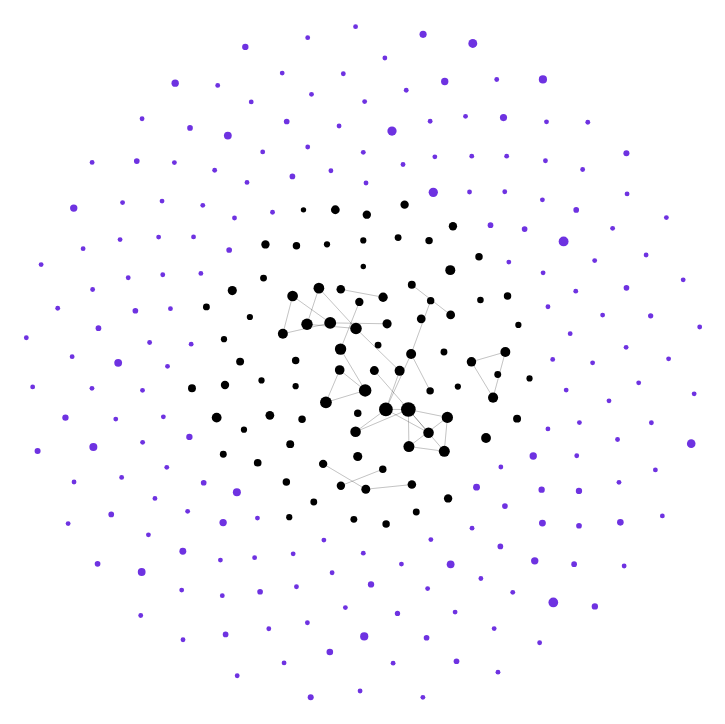
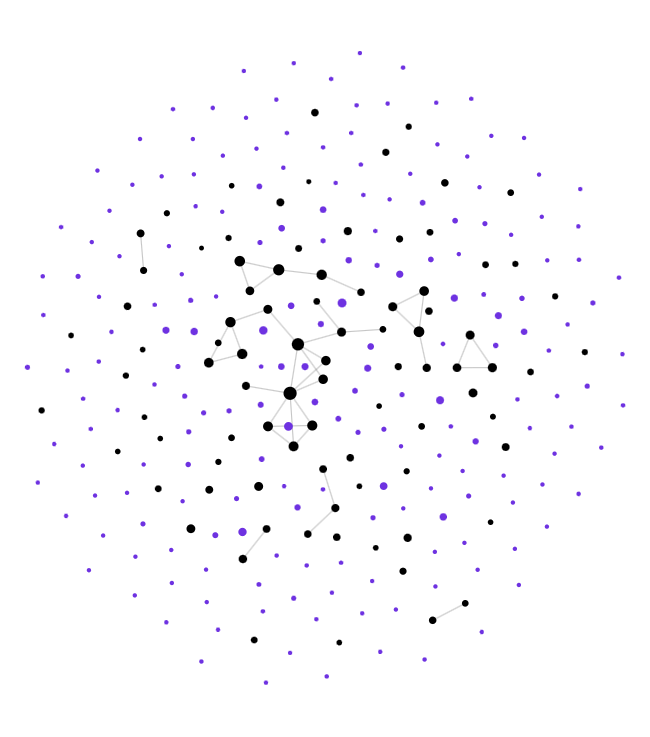
Redid the readme images that showcase the functionality

diff --git a/README.md b/README.md
@@ -11,9 +11,9 @@ Your vault already holds most of a graph: `[[links]]` are edges, frontmatter is 
 
 <table>
 <tr>
-<td align="center" width="33%"><img src="assets/viewer-1-links.png" alt="Step 1: only the notes, as black nodes, connected by their links"><br><sub><b>1. From the vault, no LLM</b><br>notes and their links</sub></td>
-<td align="center" width="33%"><img src="assets/viewer-2-entities.png" alt="Step 2: the same notes plus violet entity nodes the LLM found in the text, not yet connected"><br><sub><b>2. Entities in the text</b><br>found by the LLM, shown unconnected</sub></td>
-<td align="center" width="33%"><img src="assets/viewer-3-full.png" alt="Step 3: notes and entities densely connected by the relationships the LLM extracted"><br><sub><b>3. The full graph</b><br>with the LLM's relationships</sub></td>
+<td align="center" valign="bottom" width="33%"><img src="assets/viewer-1-links.png" alt="Step 1: only the notes, as black nodes, connected by their links"><br><sub><b>1. From the vault, no LLM</b><br>notes and their links</sub></td>
+<td align="center" valign="bottom" width="33%"><img src="assets/viewer-2-entities.png" alt="Step 2: the same notes plus violet entity nodes the LLM found in the text, not yet connected"><br><sub><b>2. Entities in the text</b><br>found by the LLM, shown unconnected</sub></td>
+<td align="center" valign="bottom" width="33%"><img src="assets/viewer-3-full.png" alt="Step 3: notes and entities densely connected by the relationships the LLM extracted"><br><sub><b>3. The full graph</b><br>with the LLM's relationships</sub></td>
 </tr>
 </table>
 <p align="center"><sub>A real vault of 88 notes in <code>src/kg_view.py</code>, names hidden: notes in black, entities in violet. Steps 1 and 2 are the same graph with the viewer's "Entities" and "Extracted by LLM" switches turned off. Entities and their relationships come from the same LLM step; step 2 only separates them to show what was found.</sub></p>
